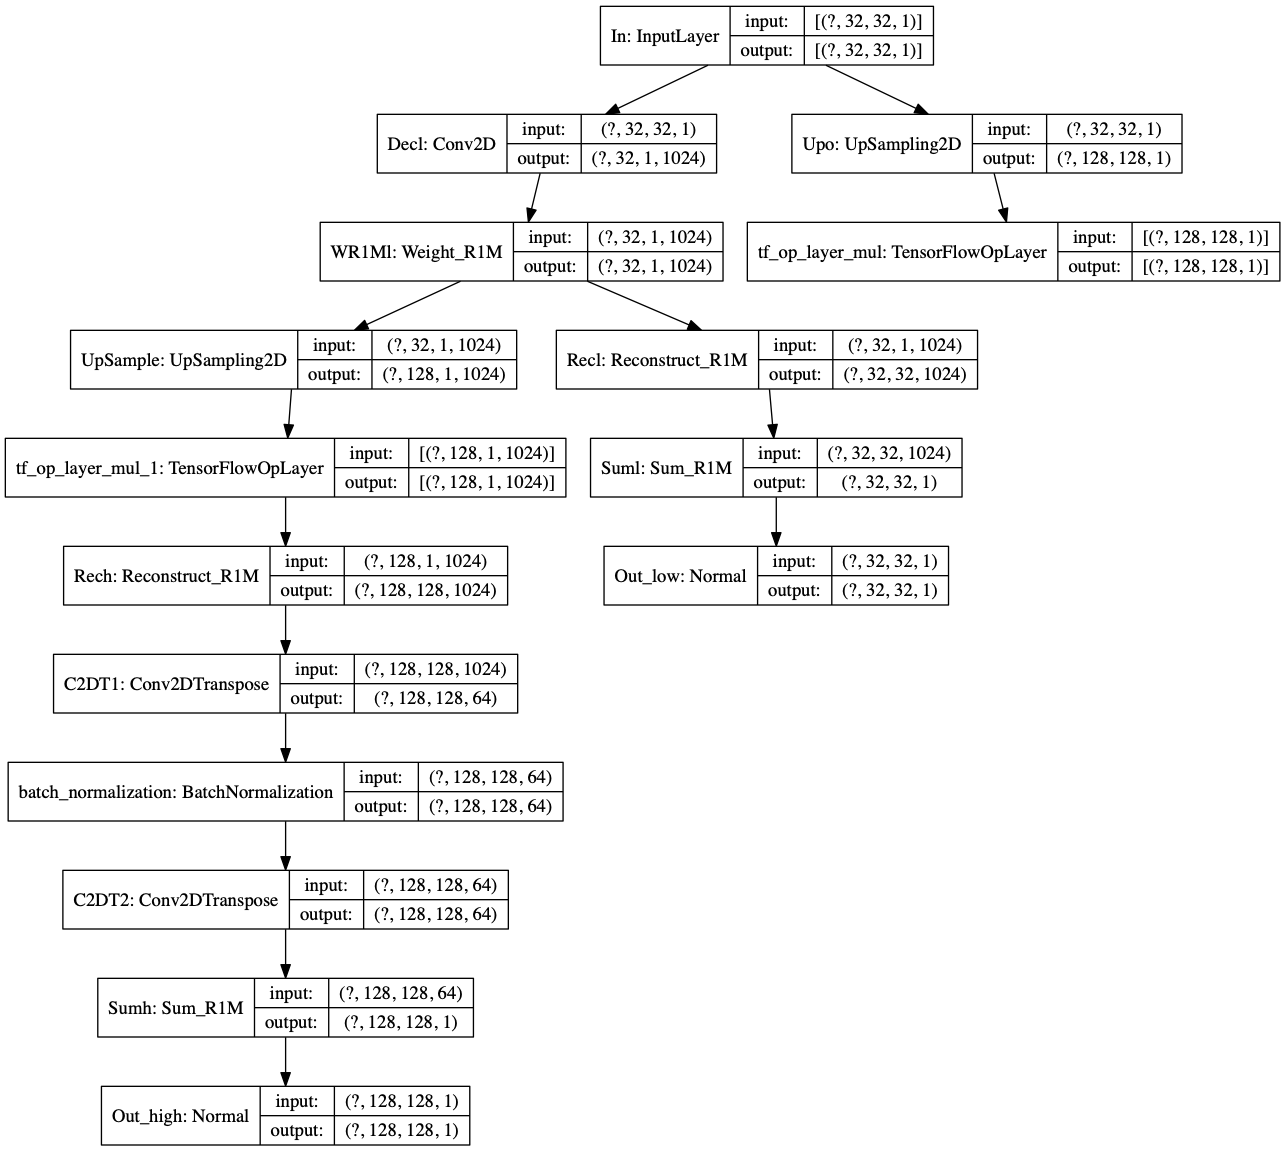
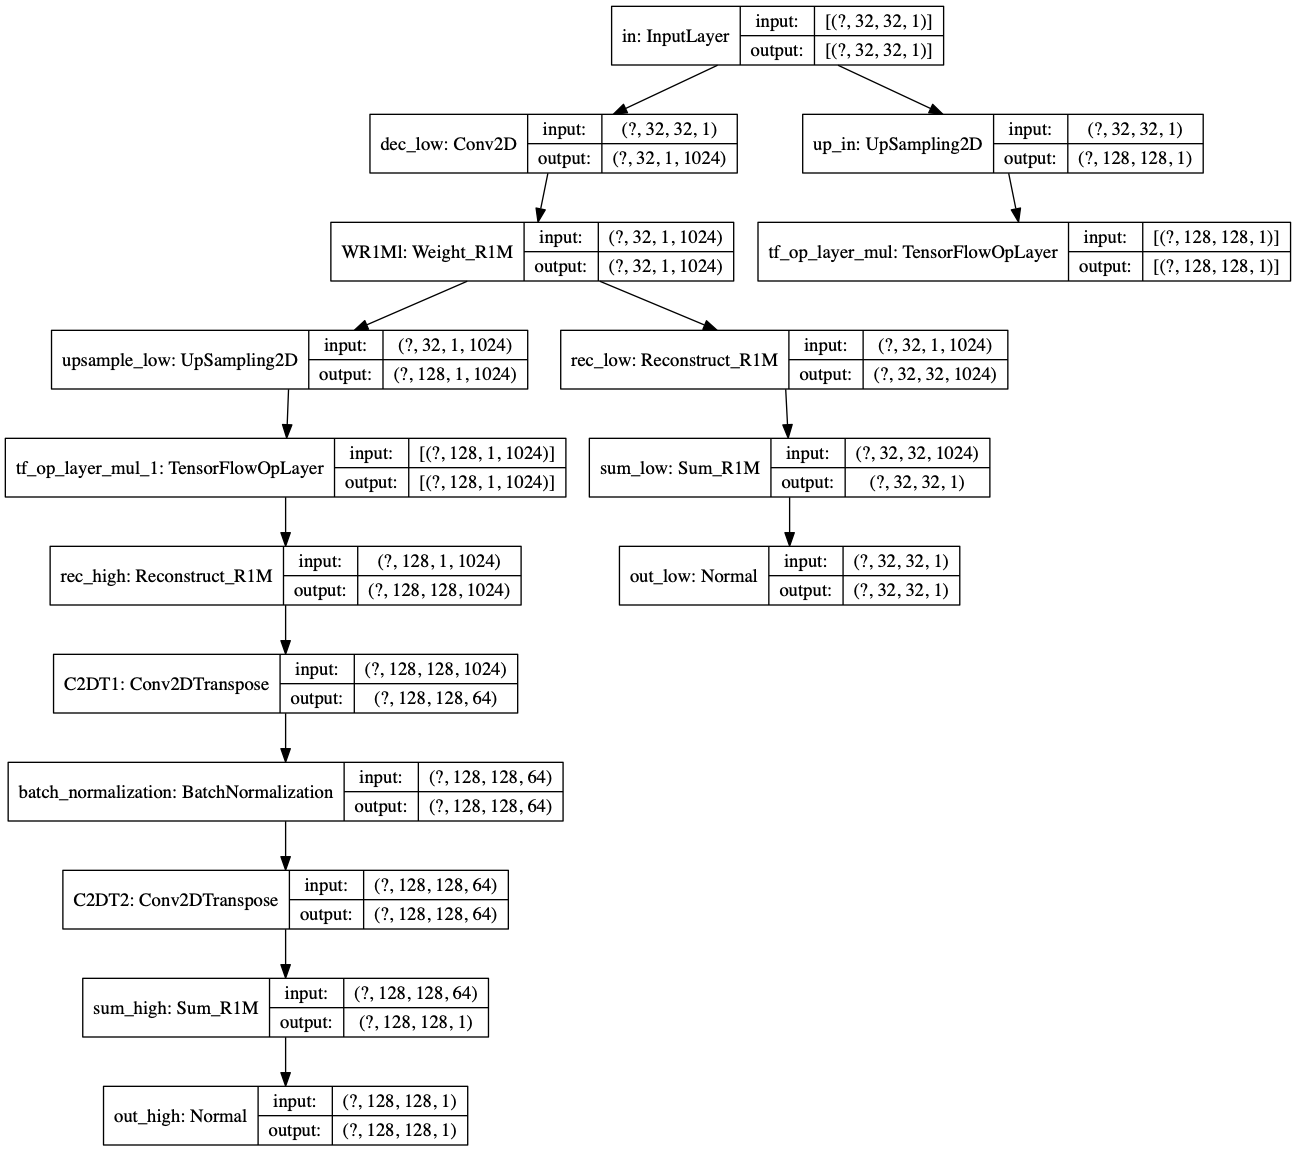
update model

diff --git a/model.py b/model.py
@@ -82,23 +82,26 @@ def downsample(filters, size, apply_batchnorm=True):
 
 def make_generator_model(len_low_size=16, scale=4):
     In = tf.keras.layers.Input(
-        shape=(len_low_size, len_low_size, 1), name='In', dtype=tf.float32)
-    Decl = tf.keras.layers.Conv2D(1024, [1, len_low_size], strides=1, padding='valid', data_format="channels_last", activation='relu', use_bias=False,
-                                  kernel_constraint=tf.keras.constraints.NonNeg(), kernel_initializer=tf.keras.initializers.RandomNormal(mean=0.01, stddev=0.1),  name='Decl')(In)
+        shape=(len_low_size, len_low_size, 1), name='in', dtype=tf.float32)
+    Decl = tf.keras.layers.Conv2D(1024, [1, len_low_size], strides=1, padding='valid', data_format="channels_last", 
+                                    activation='relu', use_bias=False,
+                                    kernel_constraint=tf.keras.constraints.NonNeg(), 
+                                    kernel_initializer=tf.keras.initializers.RandomNormal(mean=0.01, stddev=0.1), 
+                                    name='dec_low')(In)
 
     WeiR1Ml = Weight_R1M(name='WR1Ml')(Decl)
-    Recl = Reconstruct_R1M(1024, name='Recl')(WeiR1Ml)
-    Suml = Sum_R1M(name='Suml')(Recl)
-    low_out = Normal(len_low_size, name='Out_low')(Suml)
+    Recl = Reconstruct_R1M(1024, name='rec_low')(WeiR1Ml)
+    Suml = Sum_R1M(name='sum_low')(Recl)
+    low_out = Normal(len_low_size, name='out_low')(Suml)
 
-    up_o = tf.keras.layers.UpSampling2D(size=(4, 4), data_format='channels_last', name='Upo')(In)
+    up_o = tf.keras.layers.UpSampling2D(size=(4, 4), data_format='channels_last', name='up_in')(In)
     m_F = tf.constant(1/16.0, shape=(1, 1, 1, 1))
-    up_o = tf.keras.layers.Multiply()([up_o, m_F])
+    up_o = tf.keras.layers.Multiply(name='scale_value_in')([up_o, m_F])
 
-    up_1 = tf.keras.layers.UpSampling2D(size=(4, 1), data_format='channels_last', name='UpSample')(WeiR1Ml)
+    up_1 = tf.keras.layers.UpSampling2D(size=(4, 1), data_format='channels_last', name='upsample_low')(WeiR1Ml)
     m_F = tf.constant(1/4.0, shape=(1, 1, 1, 1))
-    up_1 = tf.keras.layers.Multiply()([up_1, m_F])
-    Rech = Reconstruct_R1M(1024, name='Rech')(up_1)
+    up_1 = tf.keras.layers.Multiply(name='scale_value_high')([up_1, m_F])
+    Rech = Reconstruct_R1M(1024, name='rec_high')(up_1)
     trans_1 = tf.keras.layers.Conv2DTranspose(  filters=64, kernel_size=(3,3),
                                                 strides=(1,1), padding='same',
                                                 data_format="channels_last",
@@ -109,8 +112,8 @@ def make_generator_model(len_low_size=16, scale=4):
                                                 data_format="channels_last",
                                                 activation='relu', use_bias=True, name='C2DT2')(batchnorm_1)
     
-    Sumh = Sum_R1M(name='Sumh')(trans_2)
-    high_out = Normal(int(len_low_size*scale), name='Out_high')(Sumh)
+    Sumh = Sum_R1M(name='sum_high')(trans_2)
+    high_out = Normal(int(len_low_size*scale), name='out_high')(Sumh)
 
     model = tf.keras.models.Model(
         inputs=[In], outputs=[low_out, high_out, up_o])
@@ -183,14 +186,14 @@ def train_step_generator(Gen, Dis, imgl, imgr, loss_filter, opts, train_logs):
         imgr_filter = tf.multiply(imgr, mfilter_high)
         #gen_low_v = Gen.trainable_variables
         gen_low_v = []
-        gen_low_v += Gen.get_layer('Decl').trainable_variables
+        gen_low_v += Gen.get_layer('dec_low').trainable_variables
         gen_low_v += Gen.get_layer('WR1Ml').trainable_variables
-        gen_low_v += Gen.get_layer('Recl').trainable_variables
-        gen_low_v += Gen.get_layer('Out_low').trainable_variables
+        gen_low_v += Gen.get_layer('rec_low').trainable_variables
+        gen_low_v += Gen.get_layer('out_low').trainable_variables
 
         gen_loss_low_ssim = generator_ssim_loss(fake_hic_l, imgl_filter)
         gen_loss_low_mse = generator_mse_loss(fake_hic_l, imgl_filter)
-        gen_loss_low = gen_loss_low_ssim # + gen_loss_low_mse
+        gen_loss_low = gen_loss_low_ssim + gen_loss_low_mse
         gradients_of_generator_low = gen_tape_low.gradient(gen_loss_low, gen_low_v)
         opts[0].apply_gradients(zip(gradients_of_generator_low, gen_low_v))
         train_logs[0](gen_loss_low_ssim)
@@ -199,10 +202,11 @@ def train_step_generator(Gen, Dis, imgl, imgr, loss_filter, opts, train_logs):
         disc_generated_output = Dis([fake_hic_h, img_l_h], training=False)
 
         gen_high_v = []
-        gen_high_v += Gen.get_layer('Rech').trainable_variables
+        gen_high_v += Gen.get_layer('rec_high').trainable_variables
         gen_high_v += Gen.get_layer('C2DT1').trainable_variables
-        gen_high_v += Gen.get_layer('C2DT2').trainable_variables        
-        gen_high_v += Gen.get_layer('Out_high').trainable_variables
+        gen_high_v += Gen.get_layer('batch_normalization').trainable_variables
+        gen_high_v += Gen.get_layer('C2DT2').trainable_variables
+        gen_high_v += Gen.get_layer('out_high').trainable_variables
         gen_loss_high_0 = generator_mse_loss(fake_hic_h, imgr_filter)
         gen_loss_high_1 = generator_KL_loss(disc_generated_output)
         gen_loss_high = gen_loss_high_0*10 + gen_loss_high_1
@@ -249,10 +253,10 @@ def train(gen, dis, dataset, epochs, len_low_size, scale):
     opts = [generator_optimizer_low, generator_optimizer_high]# for generator#, discriminator_optimizer]
     generator_log_ssim_low = tf.keras.metrics.Mean('train_gen_low_ssim_loss', dtype=tf.float32)
     generator_log_mse_low = tf.keras.metrics.Mean('train_gen_low_mse_loss', dtype=tf.float32)
-    generator_log_ssim_high = tf.keras.metrics.Mean('train_gen_high_mse_loss', dtype=tf.float32)
+    generator_log_mse_high = tf.keras.metrics.Mean('train_gen_high_mse_loss', dtype=tf.float32)
     generator_log_kl_high = tf.keras.metrics.Mean('train_gen_high_KL_loss', dtype=tf.float32)
     discriminator_log = tf.keras.metrics.Mean('train_discriminator_loss', dtype=tf.float32)
-    logs = [generator_log_ssim_low, generator_log_mse_low, generator_log_ssim_high, generator_log_kl_high]# for generator, discriminator_log]
+    logs = [generator_log_ssim_low, generator_log_mse_low, generator_log_mse_high, generator_log_kl_high]# for generator, discriminator_log]
     current_time = datetime.datetime.now().strftime("%Y%m%d-%H%M%S")
     train_log_dir = 'logs/gradient_tape/' + current_time + '/generator'
     train_summary_G_writer = tf.summary.create_file_writer(train_log_dir)
@@ -295,7 +299,7 @@ def train(gen, dis, dataset, epochs, len_low_size, scale):
         with train_summary_G_writer.as_default():
             tf.summary.scalar('loss_gen_low_disssim', generator_log_ssim_low.result(), step=epoch)
             tf.summary.scalar('loss_gen_low_mse', generator_log_mse_low.result(), step=epoch)
-            tf.summary.scalar('loss_gen_high_mse', generator_log_ssim_high.result(), step=epoch)
+            tf.summary.scalar('loss_gen_high_mse', generator_log_mse_high.result(), step=epoch)
             tf.summary.scalar('loss_gen_high_kl', generator_log_kl_high.result(), step=epoch)
             mpy = demo_pred_low.numpy()
             m = np.log1p(100*np.squeeze(mpy[0,:,:,0]))
